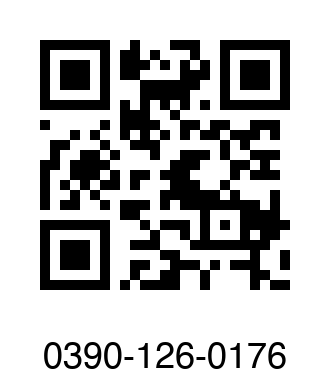
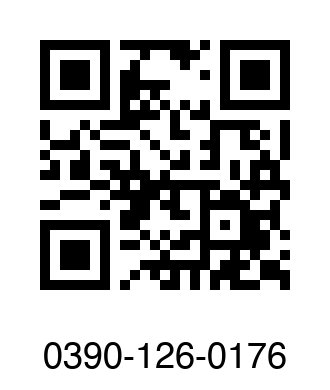
generated files

diff --git a/main/include/CHIPPairingConfig.h b/main/include/CHIPPairingConfig.h
@@ -2,7 +2,7 @@
  * Auto-generated Matter Pairing Configuration
  * Generated by: scripts/generate_pairing_config.py
  *
- * QR Code:     MT:Y.K90S0.03LA5L56320
+ * QR Code:     MT:-AGA4UB-03LA5L56320
  * Manual Code: 03901260176
  *
  * To regenerate: make generate-pairing

diff --git a/USER-GUIDE.md b/USER-GUIDE.md
@@ -169,5 +169,5 @@ For issues or questions:
 **Device Information:**
 - Vendor: M5Stack
 - Product: M5NanoC6 Switch
-- Vendor ID: 0xFFF1
-- Product ID: 0x8000
+- Vendor ID: 0xFFF2
+- Product ID: 0x0010
